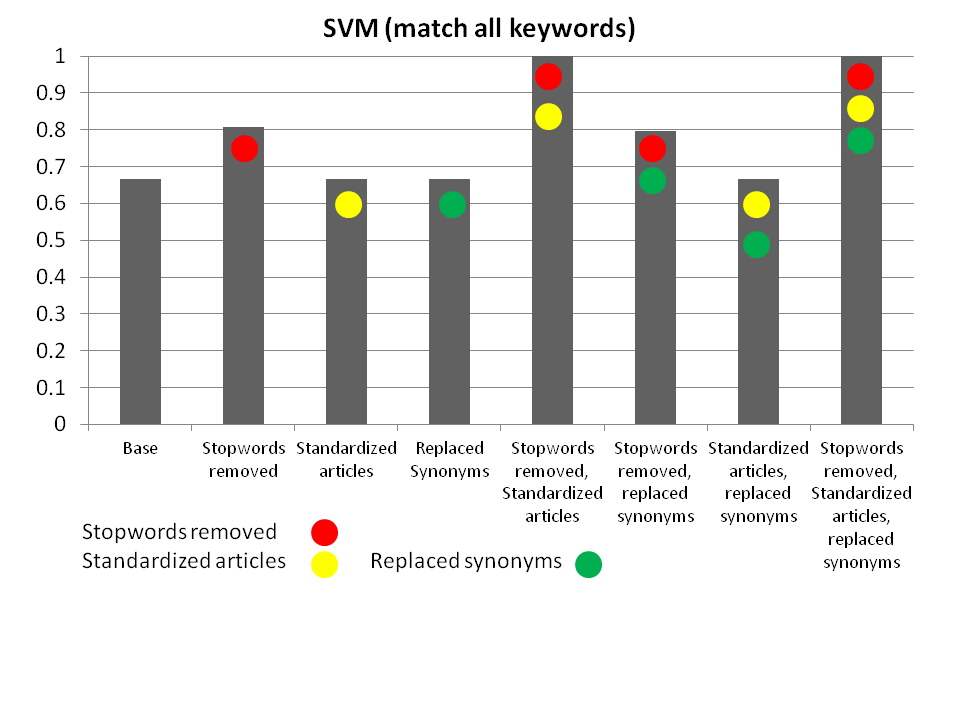
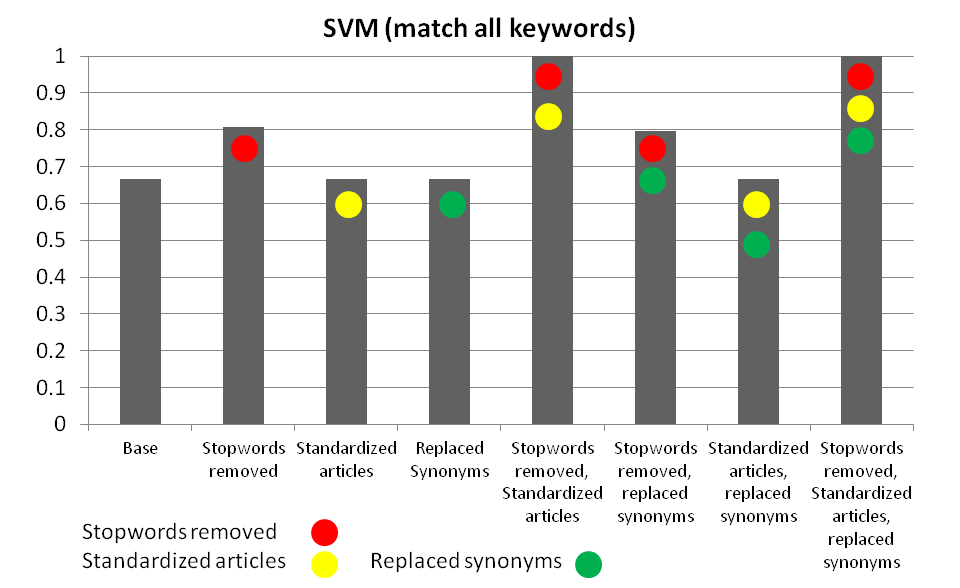
updated paper

diff --git a/paper/report.tex b/paper/report.tex
@@ -31,7 +31,7 @@ escapeinside={\%*}{*)}          % if you want to add a comment within your code
 \fancyfoot{}
 \fancyhead{}
 \fancyfoot[CE,CO]{\thepage}
-\fancyhead[LO,LE]{Detecting Texts Copied from a Common Source\\ Toth}
+\fancyhead[LO,LE]{Detecting Texts Copied from a Common Source\\ Toth, Kiffer, Fein, Sheriff}
 
 % disables chapter, section and subsection numbering
 \setcounter{secnumdepth}{-1} 
@@ -84,7 +84,7 @@ At it’s best, cosine similarity was able to achieve about a 96.5\% true positi
 
 
 
-\subsubsection{Algorithms and Methodology Overview}
+\subsection{Algorithms and Methodology Overview}
 
 
 \subsubsection{Data Preprocessing}
@@ -100,11 +100,16 @@ Our data set of source articles is in .xml format. For use, we parse the file in
 
 Figure ~\ref{fig:filtering} shows a sample sentence (line 1) with the three techniquest applied in isolation and together. Line 2 shows the effects of stop word removal. Line 3 shows synonym replacement where a word is replaced with its most common synonym. For example, if the words “like” “love” and “adore” all appeared in the data set, each instance of “like” “love” or “adore” would be replaced with “like.” In the example of line 2, NLTK and Wordnet were used to accomplish this task for each word in each article. First, the part of speech tagger in NLTK was used to denote the part of speech for the word "handsome", adjective Next, using the WordNet database, the synonyms for all senses of "handsome" the adjective were found and put into a list. Finally, this list of synonyms was sorted by order of occurence and the most common synonym replaced the word. Line 4 shows the stemming of words which takes a word and replaces it with the stem of the word. In this case, "played" becomes "play". Line 5 shows the combination of all three techniques with stemming occuring last.
 
+In addition to filtering individual articles, we can also determine the types of articles to be used in our trianing and test sets. Since each article is denoted by a set of keywords, we can choose to use only articles that share every keyword, at least one keyword, or give no restrictions on keyword similarity.
+
+To insure that we are using similar training and test sets for all methods, we decided to train on odd numbered source articles and test on even numbered source articles.
 %TODO:
-<TALK ABOUT TRAINING AND TEST SETS (even and odd)>
+%<TALK ABOUT TRAINING AND TEST SETS (even and odd)>
 
 
 \subsubsection{SVM Approach}
+
+This supervised learning approach uses a soft margin support vector machine (SVM) to classify articles. The source articles are labeled with a unique number and this number is also given to every spun article that comes from that source. 
 
 %TODO:
 
@@ -123,17 +128,28 @@ We hypothesize that, given two articles A1 and A2, this generative model can be 
 
 \subsection{SVM Methodology}
 
-What are the criteria you are using to evaluate? How does this evaluation (e.g. experiment) relate to the questions you are trying to answer? Describe the experimental methodology that you used. What is the training/test data that was used, and why is it realistic or interesting? Exactly what performance data did you collect and how are you presenting and analyzing it? Comparisons to competing methods that address the same problem or to variations of your own algorithm are particularly useful. Give enough detail about your experiment setup so that others could reproduce the work.
+%What are the criteria you are using to evaluate? How does this evaluation (e.g. experiment) relate to the questions you are trying to answer? Describe the experimental methodology that you used. What is the training/test data that was used, and why is it realistic or interesting? Exactly what performance data did you collect and how are you presenting and analyzing it? Comparisons to competing methods that address the same problem or to variations of your own algorithm are particularly useful. Give enough detail about your experiment setup so that others could reproduce the work.
 %TODO
-<SVM METHODOLOGY AND EVALUATION CRITERIA HERE>
+%<SVM METHODOLOGY AND EVALUATION CRITERIA HERE>
+
 
 
 
 \subsection{SVM Results}
 
-Present the quantitative results of your experiments. Graphical data presentation such as graphs and histograms are frequently better than tables. Explain the basic findings by explaining the results contained in the tables and graphs.
-%TODO:
-<SVM RESULTS HERE>
+%Present the quantitative results of your experiments. Graphical data presentation such as graphs and histograms are frequently better than tables. Explain the basic findings by explaining the results contained in the tables and graphs.
+
+The results of SVM showed that filtering does improve accuracy in learning as shown in Figure ~\ref{fig:svm}. The baseline gives SVM accuracy of 66\%, but the SVM has 100\% when all filtering methods are used. The filtering techniques in rough order of efficacy are: stopwords removed, replaced synonyms, standardized articles. Standardized articles refers to stemming and lemitizing the articles. Figure ~\ref{fig:svm} shows the results for the case where the articles share every keyword.
+
+
+\begin{figure}[h!]
+  \centering
+  \includegraphics[width=0.75\textwidth]{svm_allmatches}
+  \caption{SVM Results Histogram}
+  \label{fig:svm}
+\end{figure}
+
+\clearpage
 
 \subsection{HMM Methodology}
 
@@ -201,18 +217,19 @@ How do the results answer your questions? What conclusions do the results suppor
 Can you say anything about related work from your background readings? It may be possible to answer the following questions for each piece of related work that addresses the same or a similar problem. What is their problem and method? How is your problem and method different? Why is your problem and method better? 
 
 \section{Future Work}
+\begin{itemize}
 
-•Use thresholding to allow for "none of the above" classification.  This would prevent a sufficiently dissimilar article from accidentally being marked as coming from the same source as another.
+\item Use thresholding to allow for "none of the above" classification.  This would prevent a sufficiently dissimilar article from accidentally being marked as coming from the same source as another.
 
-•Consider training on examples that are classified only as "same source" or "not same source".  This would attempt to learn common words that are used by the authors of spin groups.
+\item Consider training on examples that are classified only as "same source" or "not same source".  This would attempt to learn common words that are used by the authors of spin groups.
 
-•Explore using K-Mean clustering to produce K spin group clusters. Will allow to train on all data while keeping number of hidden states small.
+\item Explore using K-Mean clustering to produce K spin group clusters. Will allow to train on all data while keeping number of hidden states small.
 
-•Use our data to better estimate unigram probabilities for improved transition and emission smoothing.
+\item Use our data to better estimate unigram probabilities for improved transition and emission smoothing.
 
-•Match unseen spin groups to most similar cluster to better estimate transition probabilities.
+\item Match unseen spin groups to most similar cluster to better estimate transition probabilities.
 
-
+\end{itemize}
 What are the major shortcomings of your current method? For each shortcoming, propose additions or enhancements that would help overcome it.
 
 
